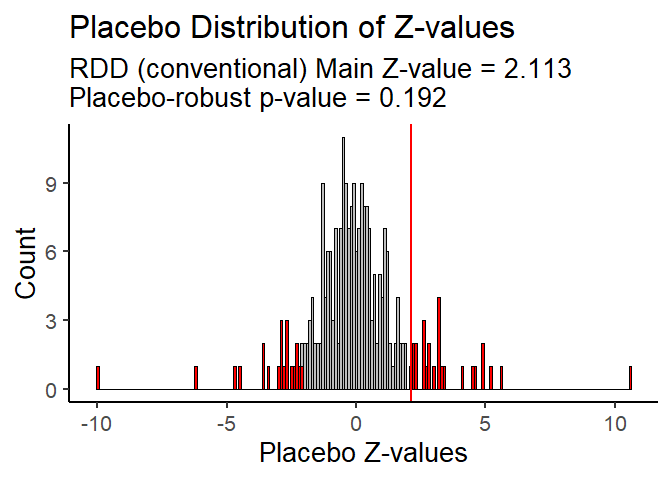
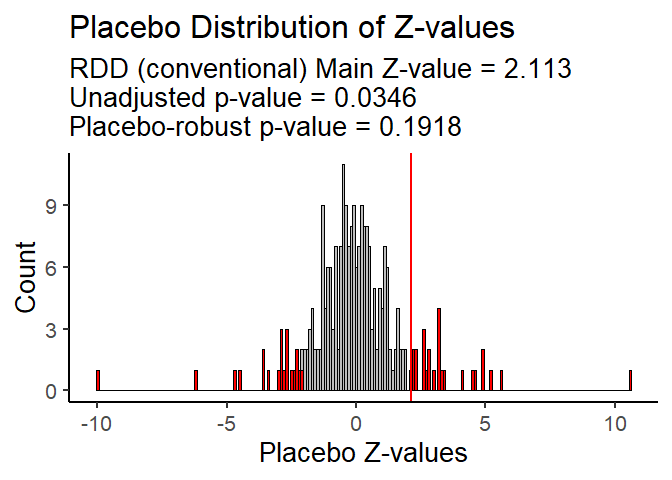
add coef plot function

diff --git a/README.md b/README.md
@@ -199,10 +199,12 @@ rdd_res <- uesd_robust_rdd(
 #> 
 #> Using [conventional] row for placebos:   estimate=0.8656   se=0.4096   z=2.1132   p=0.0346
 #> 
-#> Selected 95% CI for ‘ITT’ (±1.96×SE): [0.0628, 1.6685]
+#> Unadjusted 95% CI for ITT: [0.0628, 1.6685]
 #> 
-#> Placebo‐robust p-value: 0.1918
-#> Placebo‐robust 95% CI:     [-1.1163, 2.8475]
+#> Placebo‐robust 95% CI for ITT: [-1.1163, 2.8475]
+#> 
+#> Unadjusted p-value for ITT: 0.03458
+#> Placebo‐robust p-value for ITT: 0.19184
 
 
 # plot of the placebo distribution of z‐values with the uesd_placebo_plot function:
